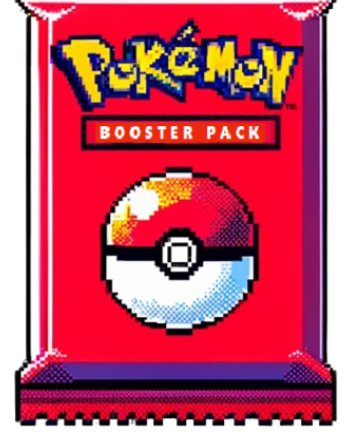
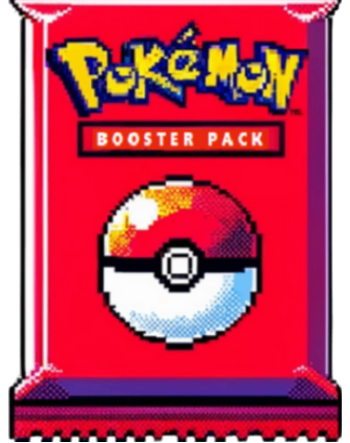
애니메이션좀 수정

diff --git a/src/main/resources/static/js/storageItem.js b/src/main/resources/static/js/storageItem.js
@@ -42,7 +42,7 @@ function spreadItems() {
         if (result.length > 0) {
             for (let item of result) {
                 itemBox.innerHTML += `
-                <p>상품명 : ${item.name}</p>
+                <p>${item.name}</p>
                 <button data-storageid="${item.storageId}" class="useBtn">사용하기</button>
                 <hr>
                 `

diff --git a/src/main/resources/static/css/index.css b/src/main/resources/static/css/index.css
@@ -148,7 +148,7 @@
     30%{
       transform-origin: 100% 100%;
       border-radius: 0 20% 0 80%;
-      transform:scale(115%) skewX(-45deg) skewY(20deg) translateY(10px)rotateX(10deg) ;
+      transform:scale(115%) skewX(-45deg) skewY(20deg) translateY(3px)rotateX(10deg) ;
       opacity: 100%;
     }
 

diff --git a/src/main/resources/templates/storage/item.html b/src/main/resources/templates/storage/item.html
@@ -1,6 +1,6 @@
 <!DOCTYPE html>
 <html xmlns:th="http://www.thymeleaf.org">
-
+<link href="/css/index.css" rel="stylesheet"/>
 <th:block th:replace="~{/layout :: setFragment(~{this::content})}">
 <th:block th:fragment="content">
 	<div class="nes-container with-title container" style="width:60%">

diff --git a/src/main/resources/static/css/storage/item.css b/src/main/resources/static/css/storage/item.css
@@ -1,0 +1,1 @@
+@charset "UTF-8";
